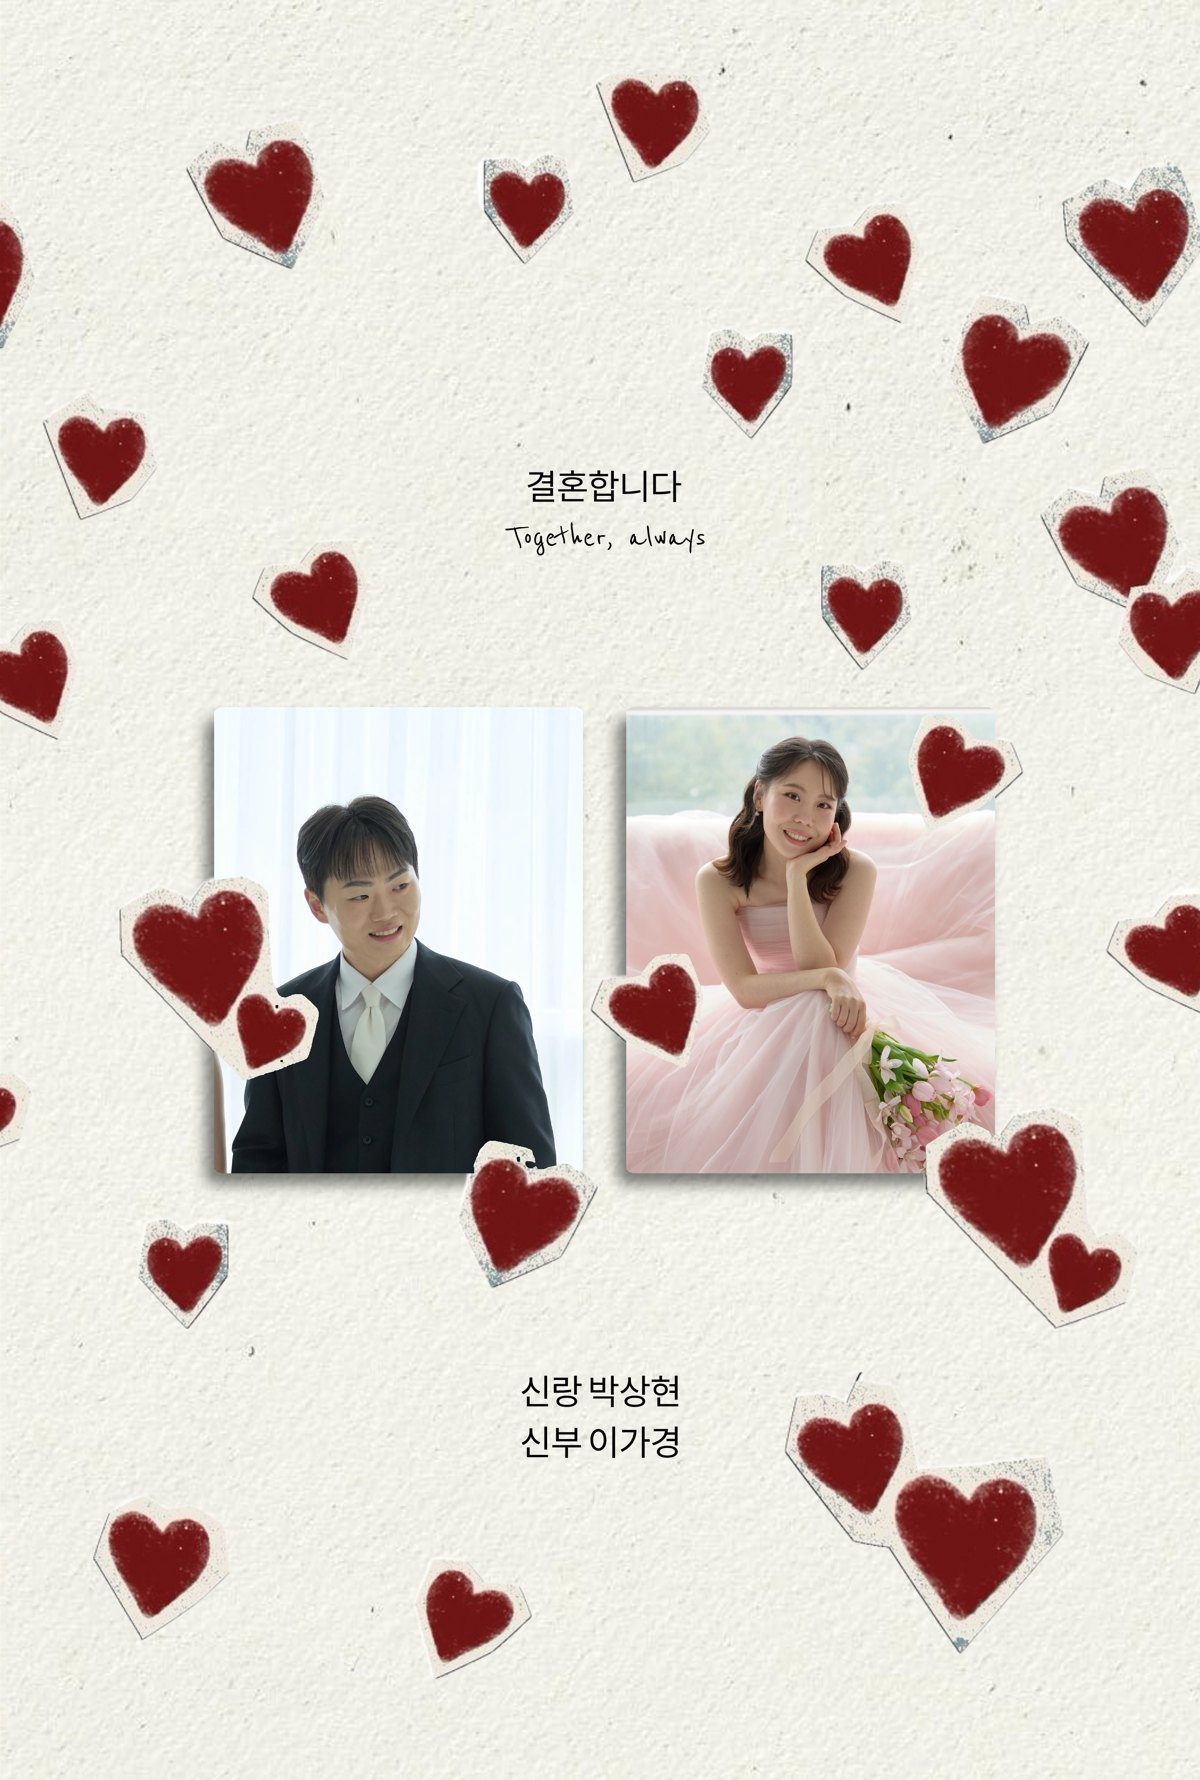
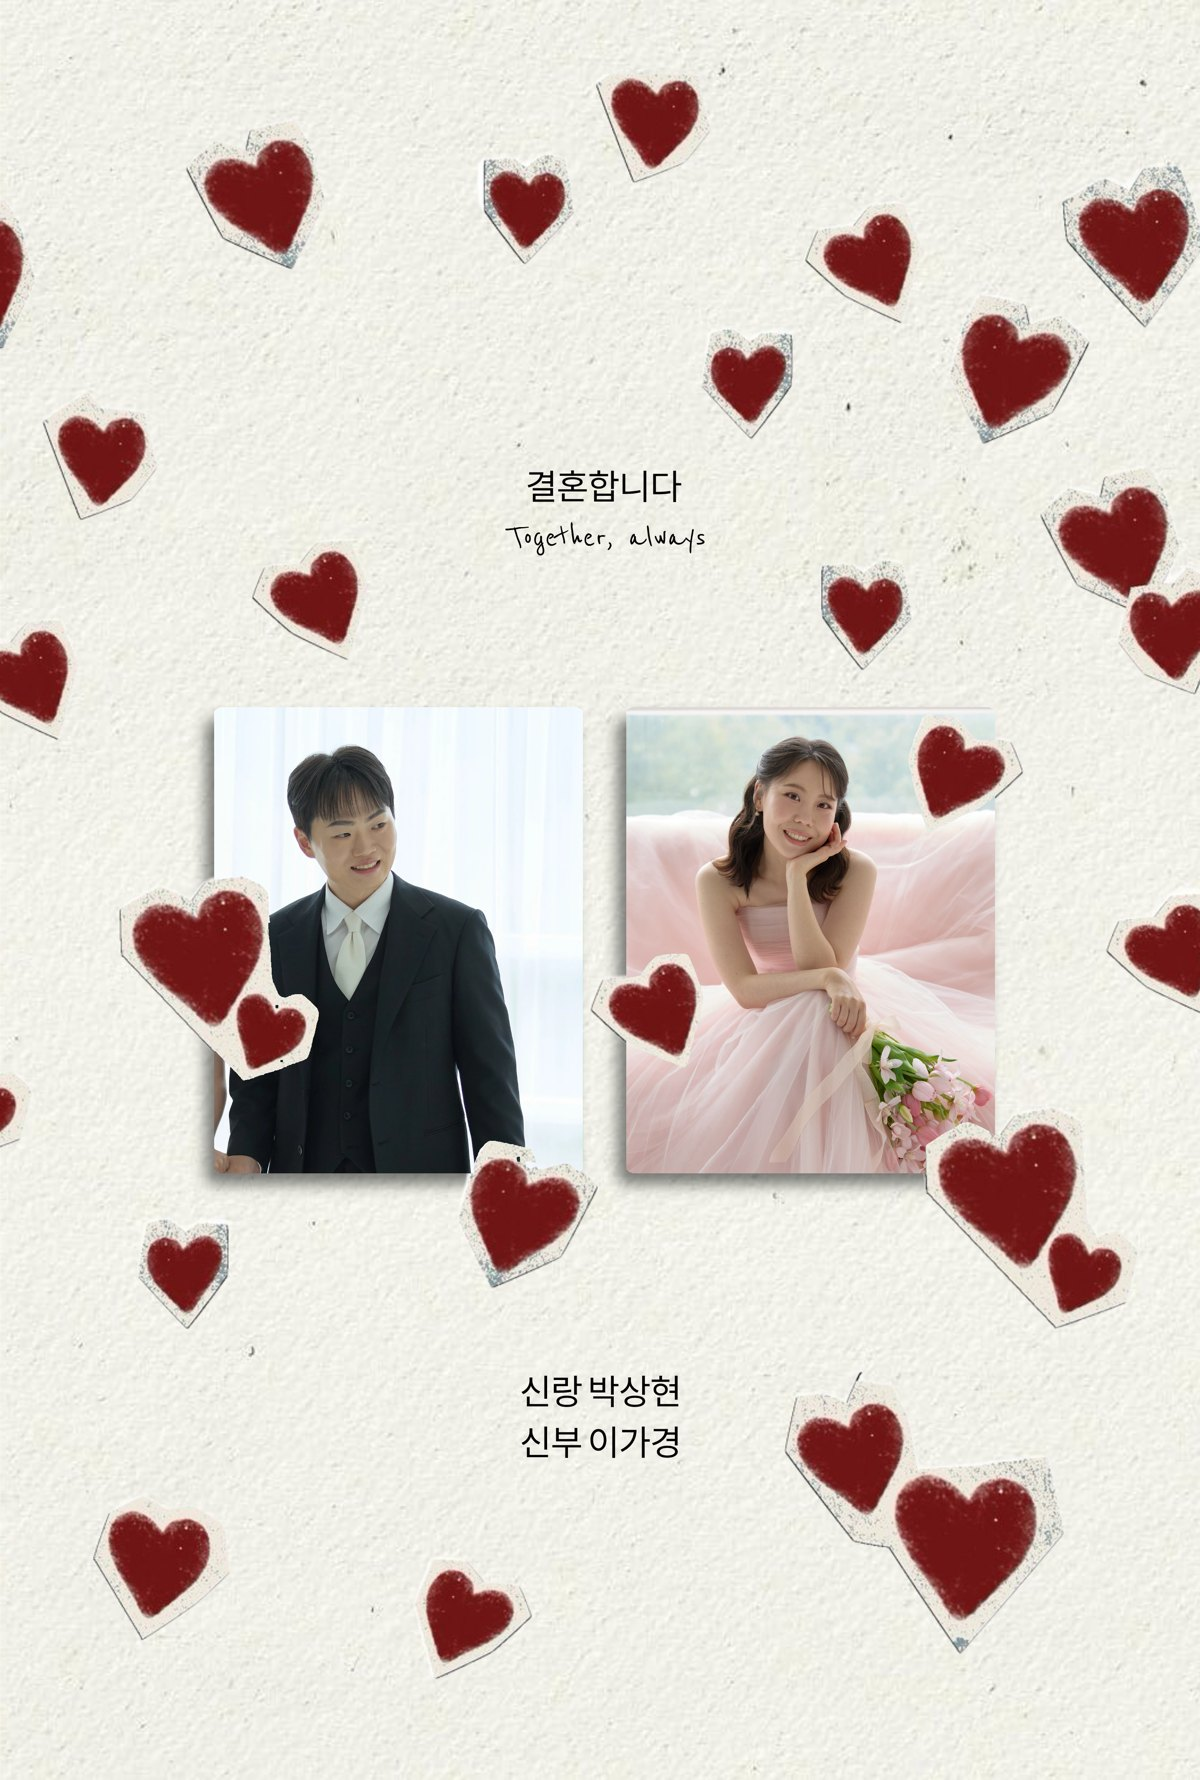
Cover: balance the groom crop against the bride photo

Changed region(s): [[0.2158, 0.4017, 0.4625, 0.6798], [0.1542, 0.5871, 0.2158, 0.6798], [0.37, 0.618, 0.4008, 0.6489]]

diff --git a/index.html b/index.html
@@ -6,7 +6,7 @@
 <title>박상현 ♥ 이가경 결혼합니다</title>
 <meta property="og:title" content="박상현 ♥ 이가경 결혼합니다">
 <meta property="og:description" content="2027년 2월 13일 토요일 낮 12시 10분">
-<meta property="og:image" content="img/cover.jpg?v=9">
+<meta property="og:image" content="img/cover.jpg?v=11">
 <link rel="preconnect" href="https://fonts.googleapis.com">
 <link rel="preconnect" href="https://fonts.gstatic.com" crossorigin>
 <link href="https://fonts.googleapis.com/css2?family=Gaegu:wght@400;700&family=Gowun+Batang:wght@400;700&family=Nothing+You+Could+Do&family=Reenie+Beanie&display=swap" rel="stylesheet">
@@ -22,7 +22,7 @@
 
   <!-- 1. 인트로 -->
   <section class="intro" id="intro">
-    <img src="img/cover.jpg?v=9" alt="박상현 이가경 결혼합니다">
+    <img src="img/cover.jpg?v=11" alt="박상현 이가경 결혼합니다">
   </section>
 
   <!-- 2. Our Wedding day -->
